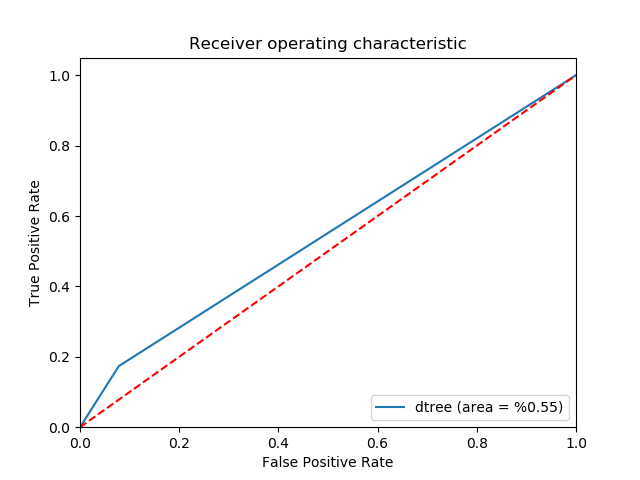
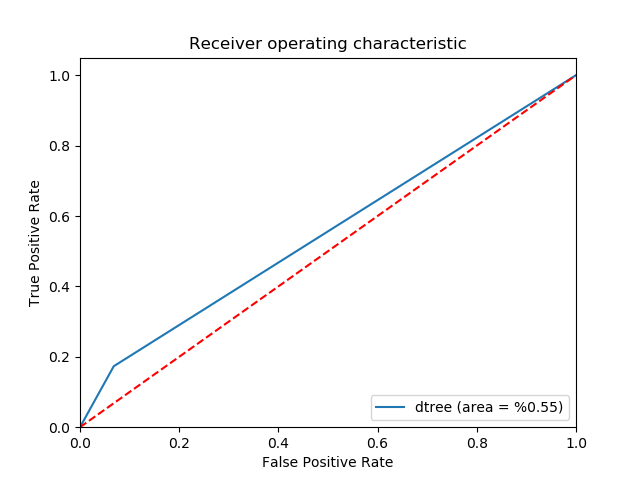
This commit: 0.2, False, all, True, None

diff --git a/wrapper_exec.py b/wrapper_exec.py
@@ -7,24 +7,26 @@ test_size	= [.2, .5]
 one_hot		= ['False', 'True']
 groups		= ['all', 'historical', 'nonhistorical']
 no_cancel	= ['True', 'False']
-sample_type	= ['over_under', 'underTomek', 'underCentroid', 'overSMOTE']
+sample_type	= ['over_under', 'underTomek', 'underCentroid', 'overSMOTE', None]
 
+typ			= None
+hot 		= False
 size		= .2
 count = 0
 
-for hot in one_hot:
-	for group in groups:
-		for can in no_cancel:
-			for typ in sample_type:
-				print('Iteration '+str(count))
-				print('RUNNING {}'.format("python NN_austin.py -test_size {} -one_hot {} -group {} \
-							-no_cancel {} -sample_type {}".format(size, hot, group, can, typ)))
-				os.system("python NN_austin.py -test_size {} -one_hot {} -group {} \
-							-no_cancel {} -sample_type {}".format(size, hot, group, can, typ))
-				os.system("git add .")
-				os.system("git commit -m \"This commit: {}\"".format(', '.join([
-										str(size), str(hot), str(group), str(can), str(typ)])))
-				os.system("git push origin master")
-				print('\n'*5)
-				count += 1
+
+for group in groups:
+	for can in no_cancel:
+		
+		print('Iteration '+str(count))
+		print('RUNNING {}'.format("python NN_austin.py -test_size {} -one_hot {} -group {} \
+					-no_cancel {} -sample_type {}".format(size, hot, group, can, typ)))
+		os.system("python NN_austin.py -test_size {} -one_hot {} -group {} \
+					-no_cancel {} -sample_type {}".format(size, hot, group, can, typ))
+		os.system("git add .")
+		os.system("git commit -m \"This commit: {}\"".format(', '.join([
+								str(size), str(hot), str(group), str(can), str(typ)])))
+		os.system("git push origin master")
+		print('\n'*5)
+		count += 1
 

diff --git a/NN_austin.py b/NN_austin.py
@@ -97,14 +97,18 @@ def main(args):
     df = dataprocessing.main(args.group, args.no_cancel, args.one_hot)
 
     #split the data into dependent and predictor
-    X = df.drop(['No_Show','Sibley_ID'], axis=1)  
+    X = df.drop(['No_Show','Sibley_ID', 'count'], axis=1)  
     y = df['No_Show']
+    filter_ = df['count']
     print(X.dtypes)
 
     #record initial metrics about the dataset
     file_name = record_file(args, df)
 
-    X_train, X_test, y_train, y_test = train_test_split(X, y, test_size=args.test_size, random_state = 1001)
+    X_train, X_test, y_train, y_test, filter_train, filter_test = train_test_split(X, y, filter_, test_size=args.test_size, random_state = 1001)
+    print(len(X_test), len(y_test), len(filter_test))
+    print(filter_test)
+
 
     # over sampling the no show class to even class distribution
     # RYAN: over_sample will be a list of the inputs you write, indexed according to imput order, first being model method type
@@ -212,8 +216,8 @@ def main(args):
 
         if args.group == 'all':
             #split the ALL segment into HISTORICAL AND NONHISTORICAL
-            hist_mask = X_test['count_app'] >= 1
-            nonhist_mask = X_test['count_app'] == 0
+            hist_mask = (filter_test > 1).values
+            nonhist_mask = filter_test == 1
 
             #write resutls for HISTORICAL SEGMENT
             print('HISTORICAL')

diff --git a/dataprocessing.py b/dataprocessing.py
@@ -136,7 +136,7 @@ def main(group='all', no_cancel = False, one_hot = False, original = False):
                        'Num_No_Show_Encounters_Since',
                        'Num_Canceled_Encounters_AllTime',
                        'Num_No_Show_Encounters_AllTime',
-                       'Appt_Status_ID', 'count'],
+                       'Appt_Status_ID'],
                          axis = 1)
 
 	if original == 'True':
